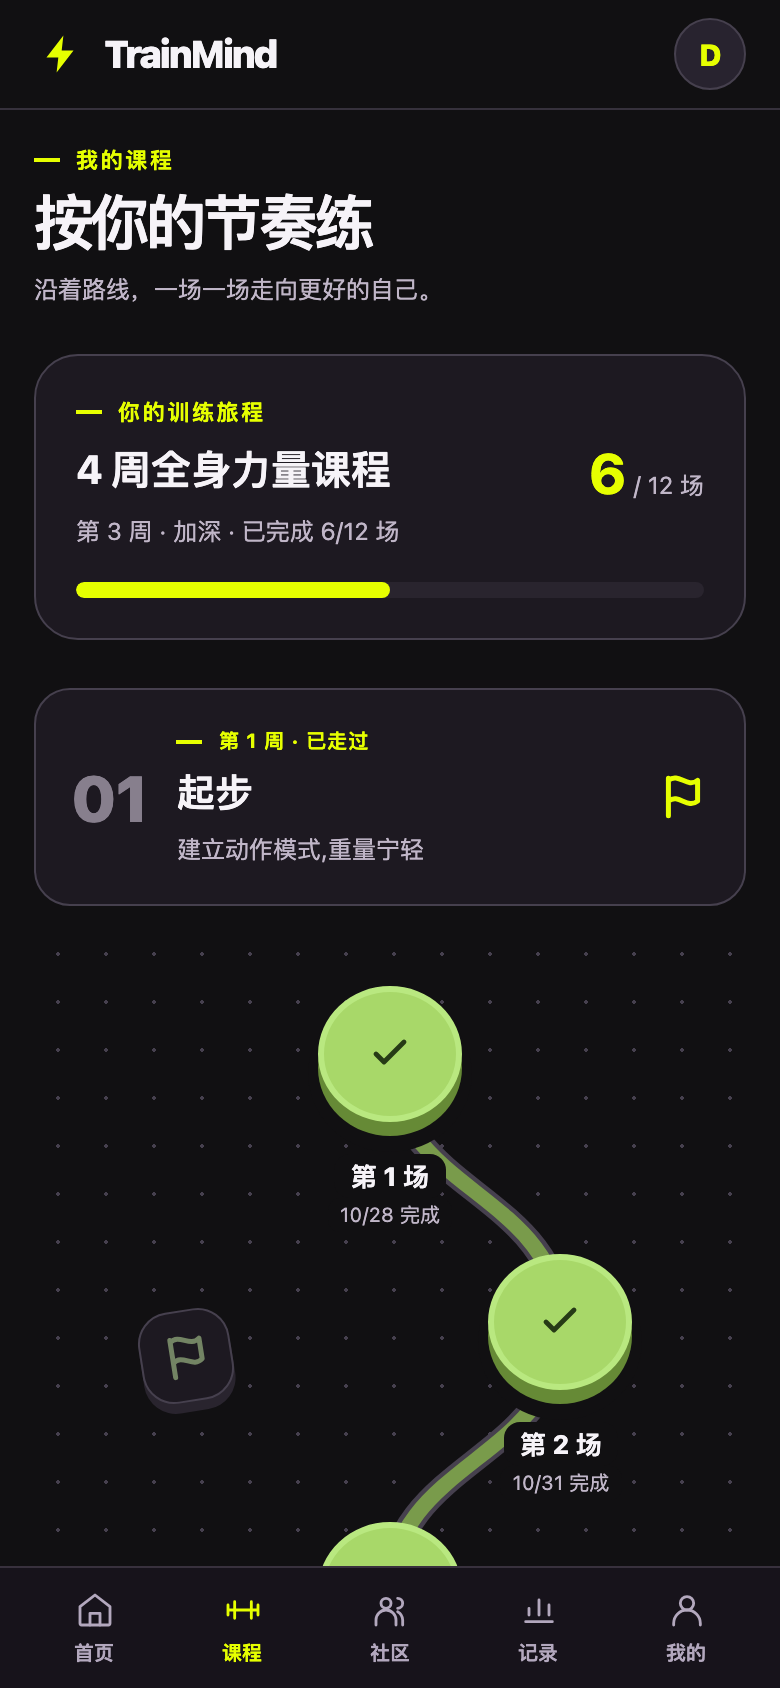
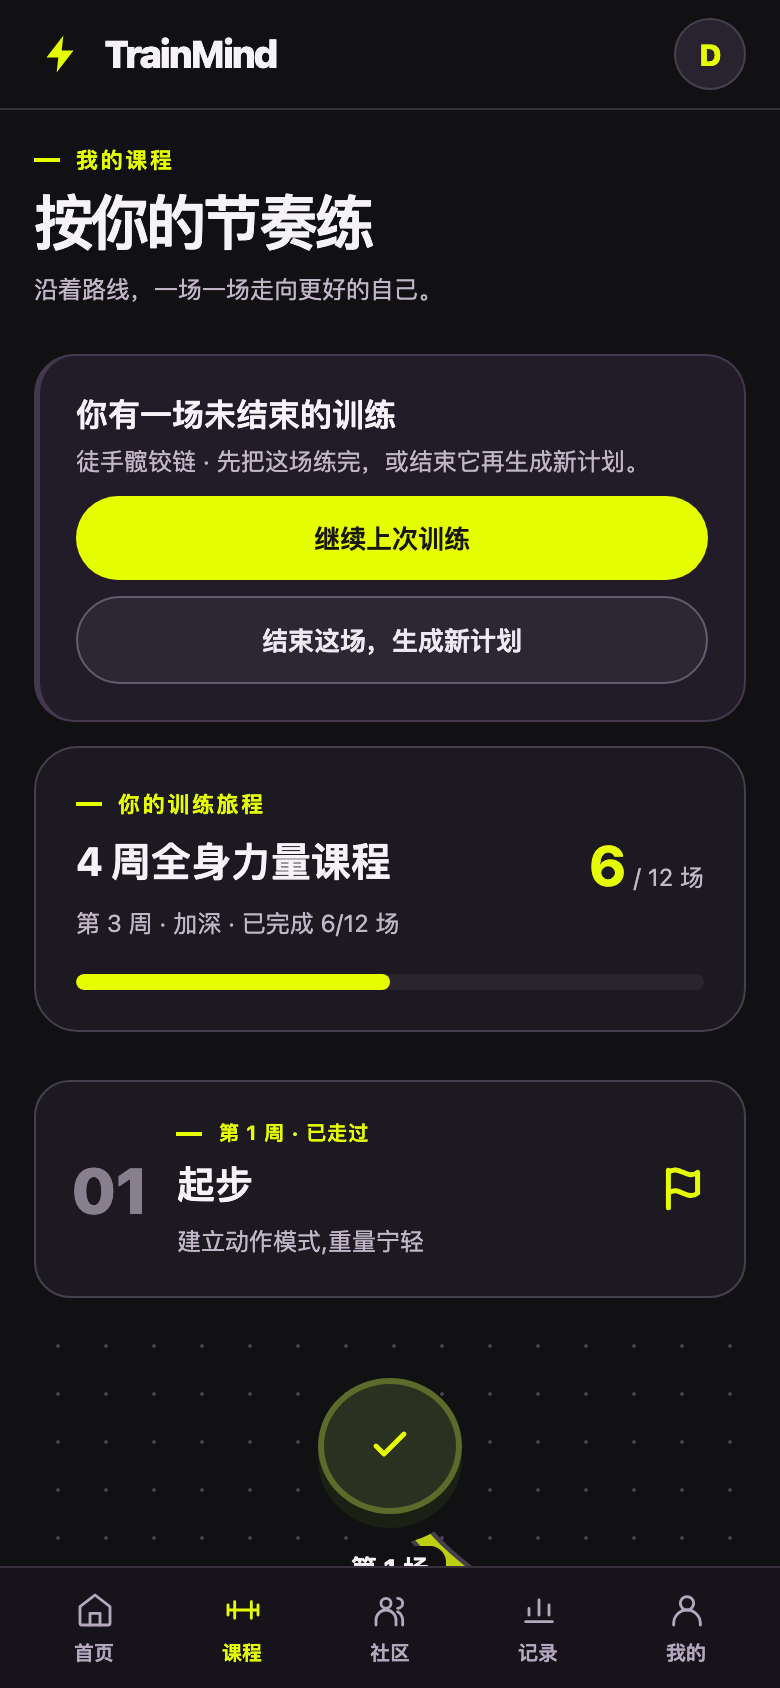
配色统一：课程地图的绿色并入主色系
课程地图里"已完成"关卡和已走过的路径原来是豆绿色 #a8d869 / #799b4b，
与全站的荧光黄主色打架——一屏上同时出现两个强调色，视觉重心散掉。
改成：已完成关卡用暗底 + 荧光黄图标，路径用主色 75% 不透明度，
"下一个"关卡仍然是唯一的实心高亮，主次分明。

验证：npm test 377/376/1/0；390×844 重截课程页确认层次。

diff --git a/public/trainmind-ui.css b/public/trainmind-ui.css
@@ -308,11 +308,11 @@ summary { cursor: pointer; }
 .course-trail { position:absolute; inset:0; width:100%; height:100%; overflow:visible; }
 .course-trail path { fill:none; stroke-linecap:round; stroke-linejoin:round; }
 .course-trail-base { stroke:var(--line); stroke-width:11px; }
-.course-trail-done { stroke:#799b4b; stroke-width:7px; }
+.course-trail-done { stroke:var(--accent); stroke-width:7px; opacity:.75; }
 .course-stop { position:absolute; top:var(--stop-y); left:var(--stop-x); transform:translate(-50%,-36px); display:flex; flex-direction:column; align-items:center; width:128px; text-align:center; }
 .course-level { display:grid; place-items:center; flex:none; width:72px; height:68px; min-height:0; padding:19px; border-radius:50%; border:3px solid #4a5846; background:var(--panel); color:#819078; box-shadow:0 7px 0 #303a2e,0 10px 0 5px var(--bg); }
 .course-level svg { width:100%; height:100%; }
-.course-stop-done .course-level { background:#a8d869; color:#263a16; border-color:#b9e880; box-shadow:0 7px 0 #668a36,0 10px 0 5px var(--bg); }
+.course-stop-done .course-level { background:#2b3120; color:var(--accent); border-color:#5c6a2a; box-shadow:0 7px 0 #1b2015,0 10px 0 5px var(--bg); }
 .course-stop-next .course-level { width:80px; height:76px; padding:23px; background:var(--accent); color:var(--accent-ink); border:4px solid #e6ffc0; box-shadow:0 8px 0 #749c36,0 0 0 9px var(--bg),0 0 0 11px #789e45; }
 .course-stop-next .course-level:active:not(:disabled) { transform:translateY(5px); box-shadow:0 3px 0 #749c36,0 0 0 9px var(--bg),0 0 0 11px #789e45; }
 .course-stop-title { color:var(--ink); font-size:13px; font-weight:750; margin-top:16px; background:var(--bg); padding:2px 8px; border-radius:8px; }
